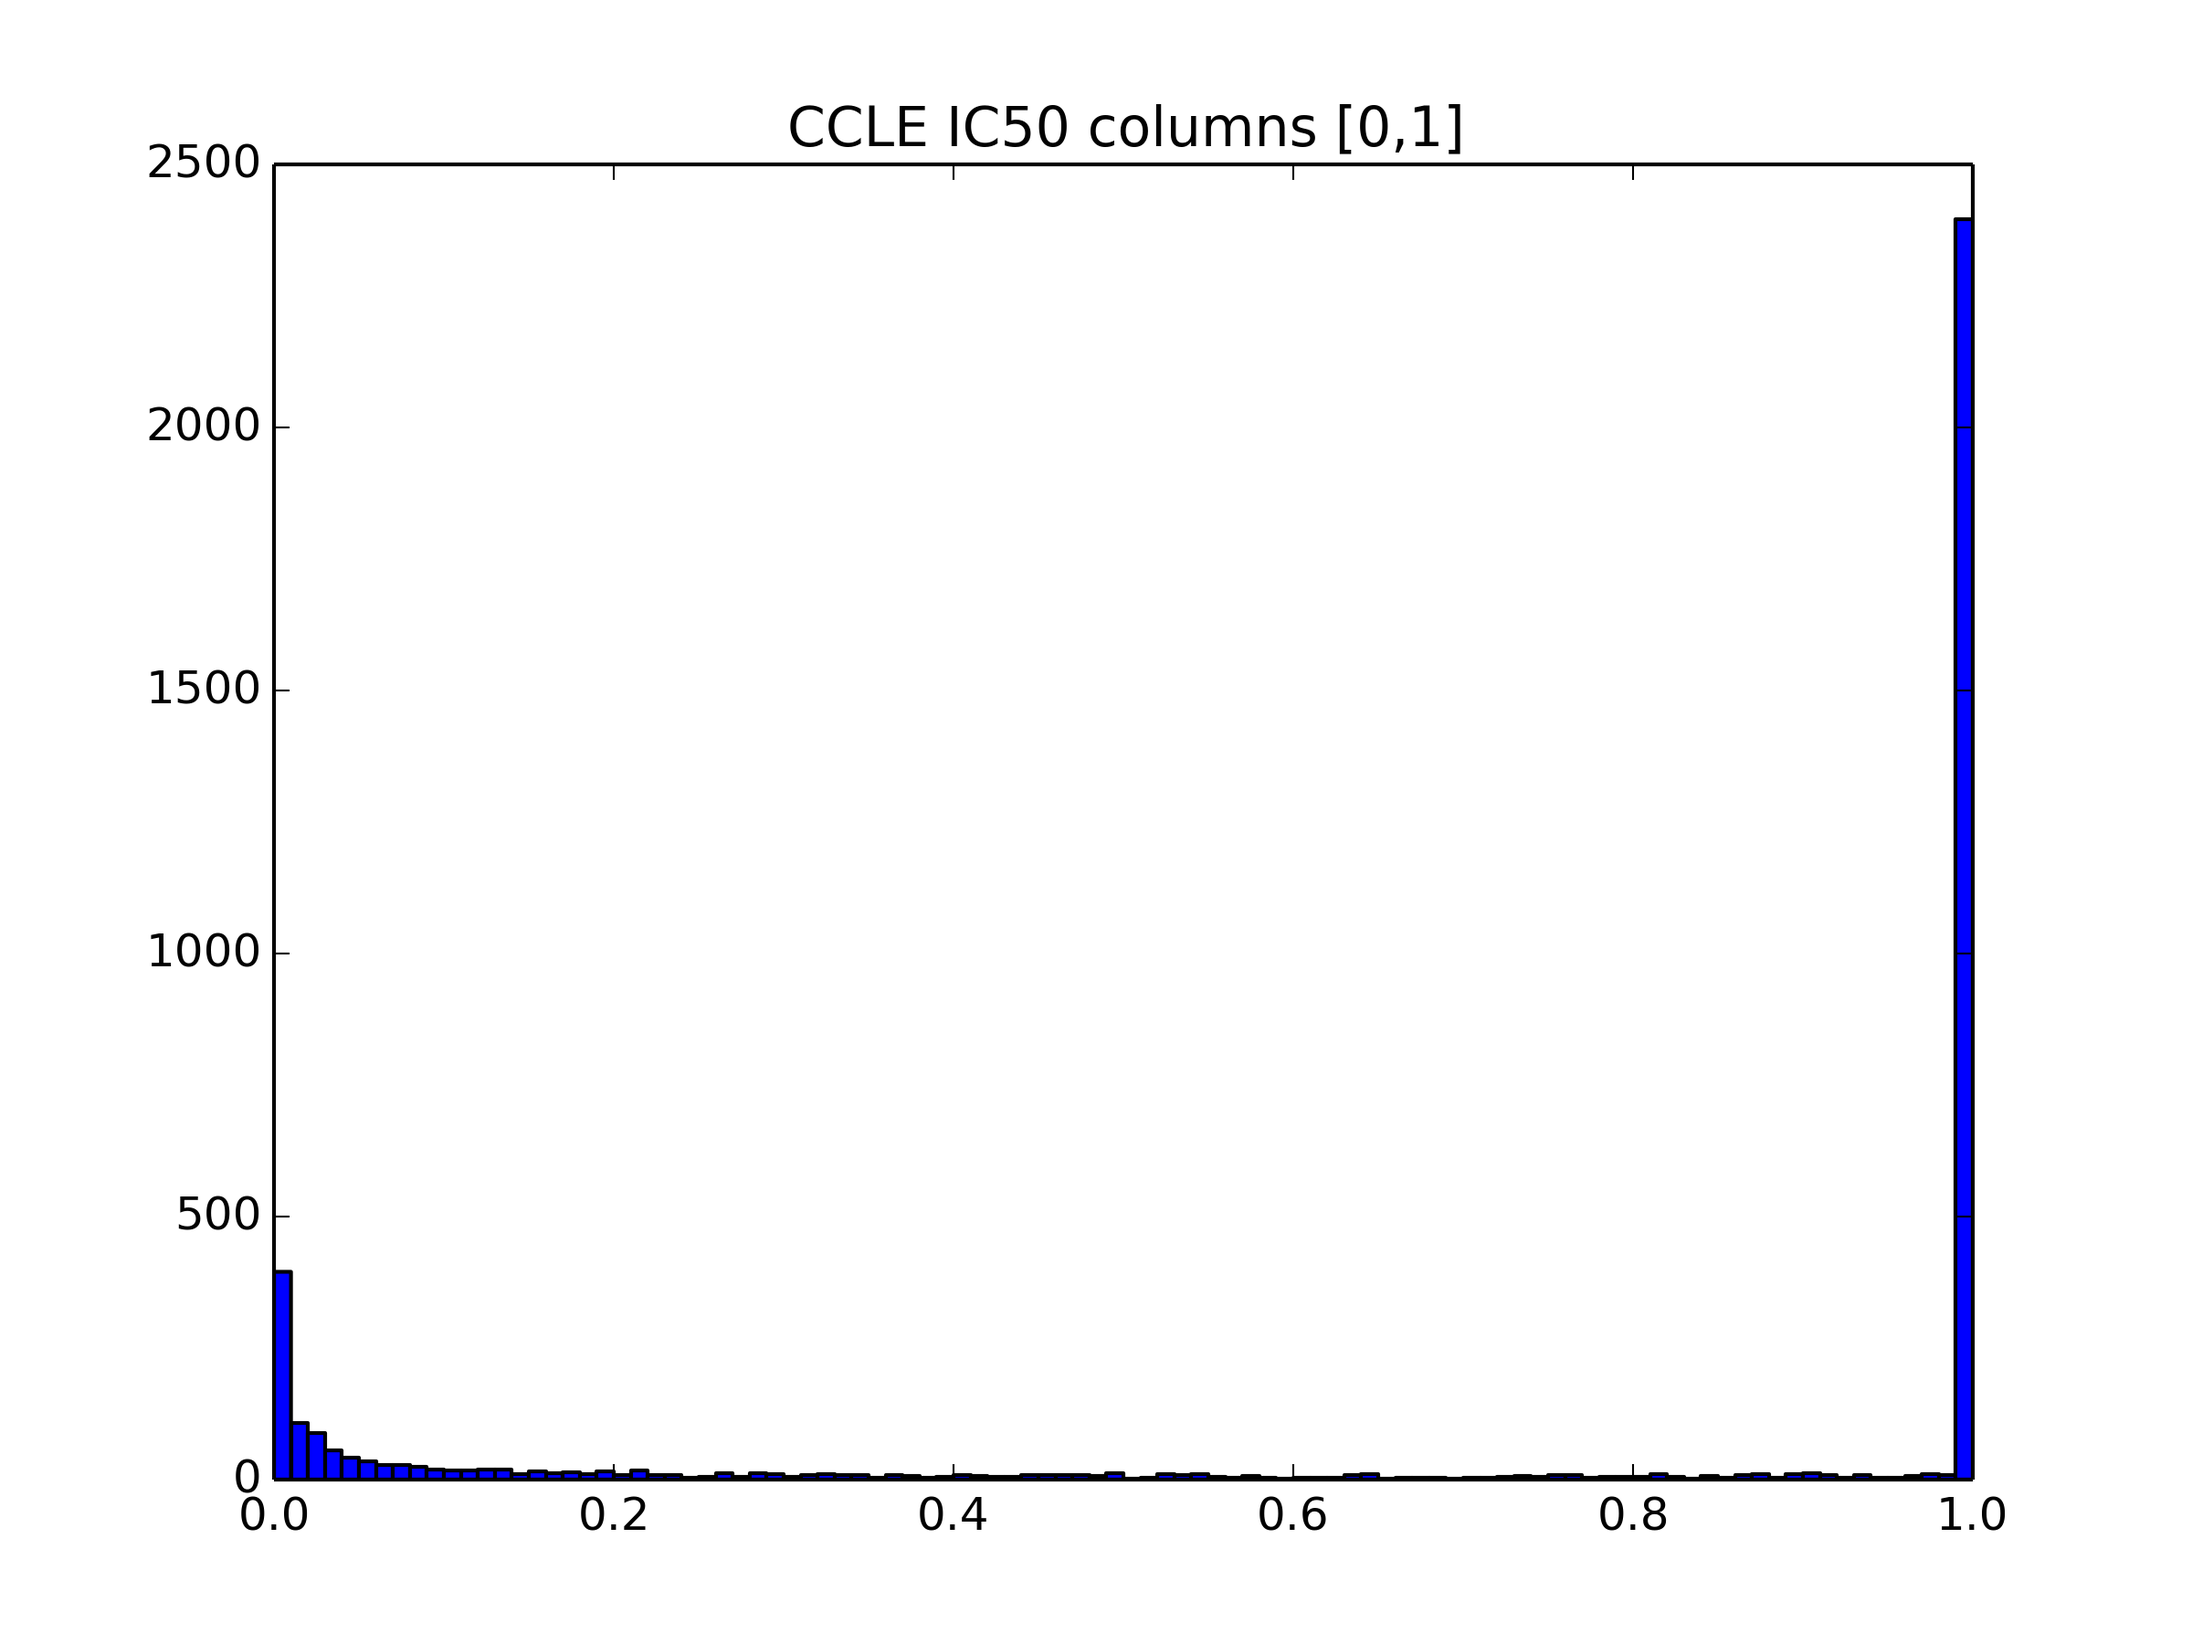
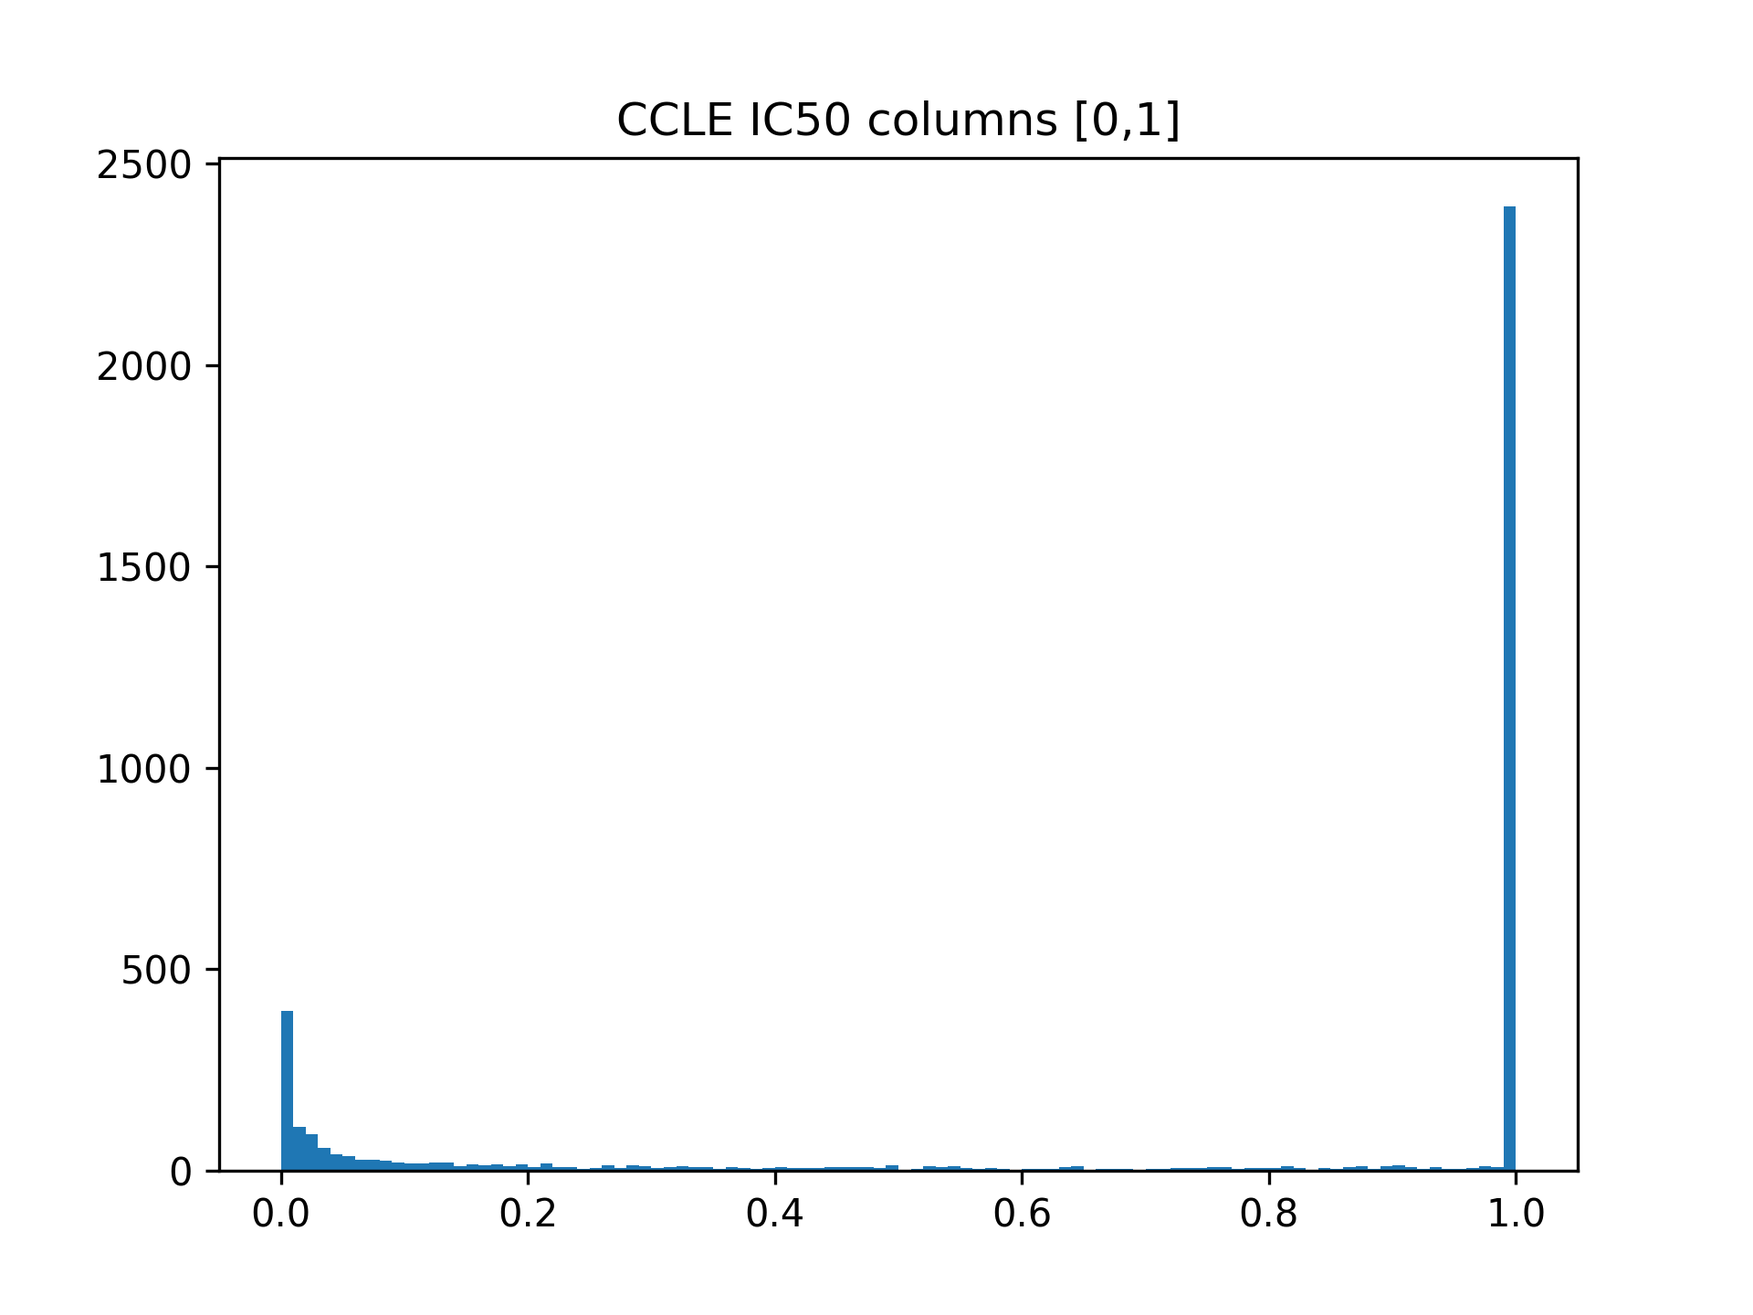
Added prettier data distribution plots.

diff --git a/methylation/data/data_plots/plot_distributions.py b/methylation/data/data_plots/plot_distributions.py
@@ -1,43 +1,32 @@
 '''
-Plot the distributions of the methylation and gene expression datasets, after
-we select the cancer driver genes; both before and after preprocessing.
-Also plot the similarity kernels.
+Pretty plot the row-normalised datasets.
 '''
 
-project_location = "/home/tab43/Documents/Projects/libraries/"
+project_location = "/Users/thomasbrouwer/Documents/Projects/libraries/"
 import sys
 sys.path.append(project_location)
 
-from HMF.methylation.load_methylation import filter_driver_genes
 from HMF.methylation.load_methylation import filter_driver_genes_std
-from HMF.methylation.load_methylation import load_kernels
 
 import numpy
 import matplotlib.pyplot as plt
 
 ''' Method for plotting the distributions '''
-def plot_distribution(matrix, plot_title, plot_location, bins=100, dpi=300):
+def plot_distribution(matrix, plot_location, binsize=0.2, dpi=600):
     values = matrix[~numpy.isnan(matrix)]
-    plt.figure()    
-    plt.hist(values,bins=bins)
-    plt.title(plot_title)
+    fig = plt.figure(figsize=(2, 1.8))
+    fig.subplots_adjust(left=0.065, right=0.935, bottom=0.11, top=0.99)   
+    plt.hist(values,bins=numpy.arange(-5, 5.01, binsize))
+    plt.xlim(-5, 5.0)
+    plt.xticks(fontsize=8)
+    plt.yticks([],fontsize=8)
     plt.show()
-    plt.savefig(plot_location,dpi=dpi)
+    plt.savefig(plot_location, dpi=dpi, bbox_inches='tight')
 
 ''' Load the data '''
-(R_ge, R_pm, R_gm, genes, samples) = filter_driver_genes()
-(R_ge_std, R_pm_std, R_gm_std, genes_std, samples_std) = filter_driver_genes_std()
-K_ge, K_pm, K_gm = load_kernels()
+#(R_ge_std, R_pm_std, R_gm_std, genes_std, samples_std) = filter_driver_genes_std()
 
 ''' Plot the data '''
-plot_distribution(R_ge,"Gene expression (unstandardised)","ge")
-plot_distribution(R_pm,"Promoter region methylation (unstandardised)","pm")
-plot_distribution(R_gm,"Gene body methylation (unstandardised)","gm")
-
-plot_distribution(R_ge_std,"Gene expression (standardised)","ge_std")
-plot_distribution(R_pm_std,"Promoter region methylation (standardised)","pm_std")
-plot_distribution(R_gm_std,"Gene body methylation (standardised)","gm_std")
-
-plot_distribution(K_ge,"Gene expression kernel","ge_kernel")
-plot_distribution(K_pm,"Promoter region methylation kernel","pm_kernel")
-plot_distribution(K_gm,"Gene body methylation kernel","gm_kernel")
+plot_distribution(R_ge_std, "pretty_ge_std")
+plot_distribution(R_pm_std, "pretty_pm_std")
+plot_distribution(R_gm_std, "pretty_gm_std")

diff --git a/methylation/data/data_plots/pretty_plot_distributions.py b/methylation/data/data_plots/pretty_plot_distributions.py
@@ -1,0 +1,43 @@
+'''
+Plot the distributions of the methylation and gene expression datasets, after
+we select the cancer driver genes; both before and after preprocessing.
+Also plot the similarity kernels.
+'''
+
+project_location = "/home/tab43/Documents/Projects/libraries/"
+import sys
+sys.path.append(project_location)
+
+from HMF.methylation.load_methylation import filter_driver_genes
+from HMF.methylation.load_methylation import filter_driver_genes_std
+from HMF.methylation.load_methylation import load_kernels
+
+import numpy
+import matplotlib.pyplot as plt
+
+''' Method for plotting the distributions '''
+def plot_distribution(matrix, plot_title, plot_location, bins=100, dpi=300):
+    values = matrix[~numpy.isnan(matrix)]
+    plt.figure()    
+    plt.hist(values,bins=bins)
+    plt.title(plot_title)
+    plt.show()
+    plt.savefig(plot_location,dpi=dpi)
+
+''' Load the data '''
+(R_ge, R_pm, R_gm, genes, samples) = filter_driver_genes()
+(R_ge_std, R_pm_std, R_gm_std, genes_std, samples_std) = filter_driver_genes_std()
+K_ge, K_pm, K_gm = load_kernels()
+
+''' Plot the data '''
+plot_distribution(R_ge,"Gene expression (unstandardised)","ge")
+plot_distribution(R_pm,"Promoter region methylation (unstandardised)","pm")
+plot_distribution(R_gm,"Gene body methylation (unstandardised)","gm")
+
+plot_distribution(R_ge_std,"Gene expression (standardised)","ge_std")
+plot_distribution(R_pm_std,"Promoter region methylation (standardised)","pm_std")
+plot_distribution(R_gm_std,"Gene body methylation (standardised)","gm_std")
+
+plot_distribution(K_ge,"Gene expression kernel","ge_kernel")
+plot_distribution(K_pm,"Promoter region methylation kernel","pm_kernel")
+plot_distribution(K_gm,"Gene body methylation kernel","gm_kernel")

diff --git a/drug_sensitivity/data/overlap/pretty_print_distributions.py b/drug_sensitivity/data/overlap/pretty_print_distributions.py
@@ -1,0 +1,31 @@
+"""
+Make nice plots of the row-wise normalised data distributions.
+"""
+
+import numpy, matplotlib.pyplot as plt
+
+''' Method for plotting the distributions '''
+def plot_distribution(matrix, plot_location, binsize=0.1, dpi=600):
+    values = matrix[~numpy.isnan(matrix)]
+    fig = plt.figure(figsize=(2, 1.8))
+    fig.subplots_adjust(left=0.06, right=0.94, bottom=0.11, top=0.99)   
+    plt.hist(values,bins=numpy.arange(0., 1.+binsize, binsize))
+    plt.xlim(0,1)
+    plt.xticks(fontsize=8)
+    plt.yticks([],fontsize=8)
+    plt.show()
+    plt.savefig(folder_plots+plot_location, dpi=dpi, bbox_inches='tight')
+
+''' Load in the data '''
+folder_in, folder_plots = "data_features/", "data_plots/"
+folder_capped, folder_01_rows, folder_01_cols = "data_capped/", "data_row_01/", "data_column_01/"
+
+ccle_ic = numpy.loadtxt(folder_01_rows+"ccle_ic50_row_01.txt", delimiter="\t")
+ccle_ec = numpy.loadtxt(folder_01_rows+"ccle_ec50_row_01.txt", delimiter="\t")
+ctrp_ec = numpy.loadtxt(folder_01_rows+"ctrp_ec50_row_01.txt", delimiter="\t")
+gdsc_ic = numpy.loadtxt(folder_01_rows+"gdsc_ic50_row_01.txt", delimiter="\t")
+
+plot_distribution(ccle_ic, "pretty_ccle_ic50_row01")
+plot_distribution(ccle_ec, "pretty_ccle_ec50_row01")
+plot_distribution(ctrp_ec, "pretty_ctrp_ec50_row01")
+plot_distribution(gdsc_ic, "pretty_gdsc_ic50_row01")

diff --git a/drug_sensitivity/data/overlap/process_data.py b/drug_sensitivity/data/overlap/process_data.py
@@ -59,10 +59,10 @@ def map_to_01(matrix):
     matrix_col01 = (matrix - min_cols) / (max_cols - min_cols)
     return matrix_row01, matrix_col01
 
-ccle_ic50_row_01, ccle_ic50_col_01 = map_to_01(ccle_ic50)
-ccle_ec50_row_01, ccle_ec50_col_01 = map_to_01(ccle_ec50)
-ctrp_ec50_row_01, ctrp_ec50_col_01 = map_to_01(ctrp_ec50_capped)
-gdsc_ic50_row_01, gdsc_ic50_col_01 = map_to_01(gdsc_ic50_capped)
+#ccle_ic50_row_01, ccle_ic50_col_01 = map_to_01(ccle_ic50)
+#ccle_ec50_row_01, ccle_ec50_col_01 = map_to_01(ccle_ec50)
+#ctrp_ec50_row_01, ctrp_ec50_col_01 = map_to_01(ctrp_ec50_capped)
+#gdsc_ic50_row_01, gdsc_ic50_col_01 = map_to_01(gdsc_ic50_capped)
 
 #plot_distribution(ccle_ic50_row_01,"CCLE IC50 rows [0,1]","ccle_ic50_row01")
 #plot_distribution(ccle_ec50_row_01,"CCLE EC50 rows [0,1]","ccle_ec50_row01")

diff --git a/methylation/load_methylation.py b/methylation/load_methylation.py
@@ -275,8 +275,8 @@ def load_top_n_GO_terms_as_rank(n, genes=[]):
     return rank_go_terms
     
 
-(R_ge, R_pm, R_gm, genes, samples) = filter_driver_genes()
-(R_ge_std, R_pm_std, R_gm_std, genes_std, samples_std) = filter_driver_genes_std()
+#(R_ge, R_pm, R_gm, genes, samples) = filter_driver_genes()
+#(R_ge_std, R_pm_std, R_gm_std, genes_std, samples_std) = filter_driver_genes_std()
 #K_ge, K_pm, K_gm = load_kernels()
 
 #(R_ge_reordered, R_pm_reordered, R_gm_reordered, labels_tumour, genes, sorted_samples) = load_driver_genes_std_tumour_labels_reordered()
